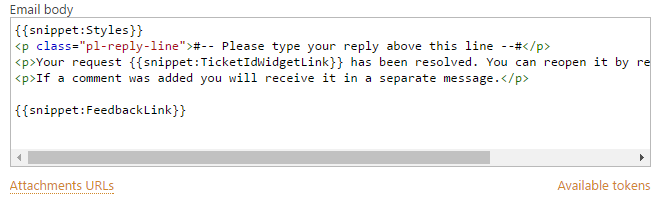
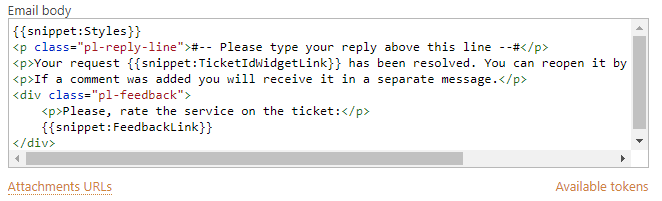
feedback snippet doc fix

diff --git a/Online/Configuration Guide/Feedback.rst b/Online/Configuration Guide/Feedback.rst
@@ -11,11 +11,11 @@ Providing a rate for customer service is quite user-friendly and quick. Addition
 How to add feedback snippet to your messages
 ~~~~~~~~~~~~~~~~~~~~~~~~~~~~~~~~~~~~~~~~~~~~
 
-Snippet ``{{snippet:FeedbackLink}}`` is automatically added in email notification template of a built-in trigger called “Notification: Requester – Ticket resolved”. 
+Snippet ``{{snippet:Feedback}}`` is automatically added in email notification template of a built-in trigger called “Notification: Requester – Ticket resolved”. 
 
 |FeedbackSnippet| 
 
-This snippet adds the rating question and three pictures with different ratings for the agent — perfect, well and bad. We assume that pictures are quite self-explanatory. These ratings have internal value like 1 is for bad, 2 is for well and 3 is for perfect. End-Users will never know about it, we use these value only for building `reports`_.
+This snippet adds a block with three pictures with different ratings for the agent — perfect, well and bad. We assume that pictures are quite self-explanatory. These ratings have internal value like 1 is for bad, 2 is for well and 3 is for perfect. End-Users will never know about it, we use these value only for building `reports`_.
 
 You can easily remove the snippet from the trigger as well as you can customize time when End-Users are asked for a satisfaction rating. Just add the snippet in email notification template of your own trigger or any other trigger. 
 
